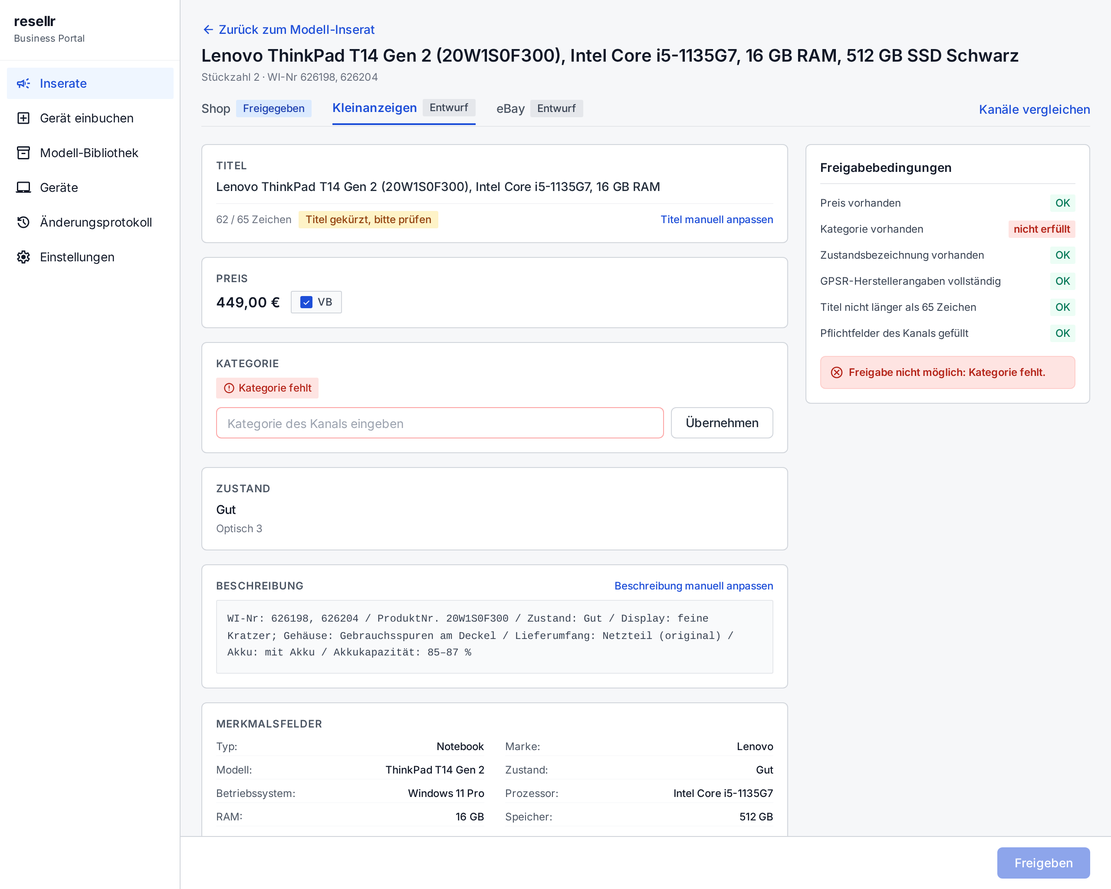
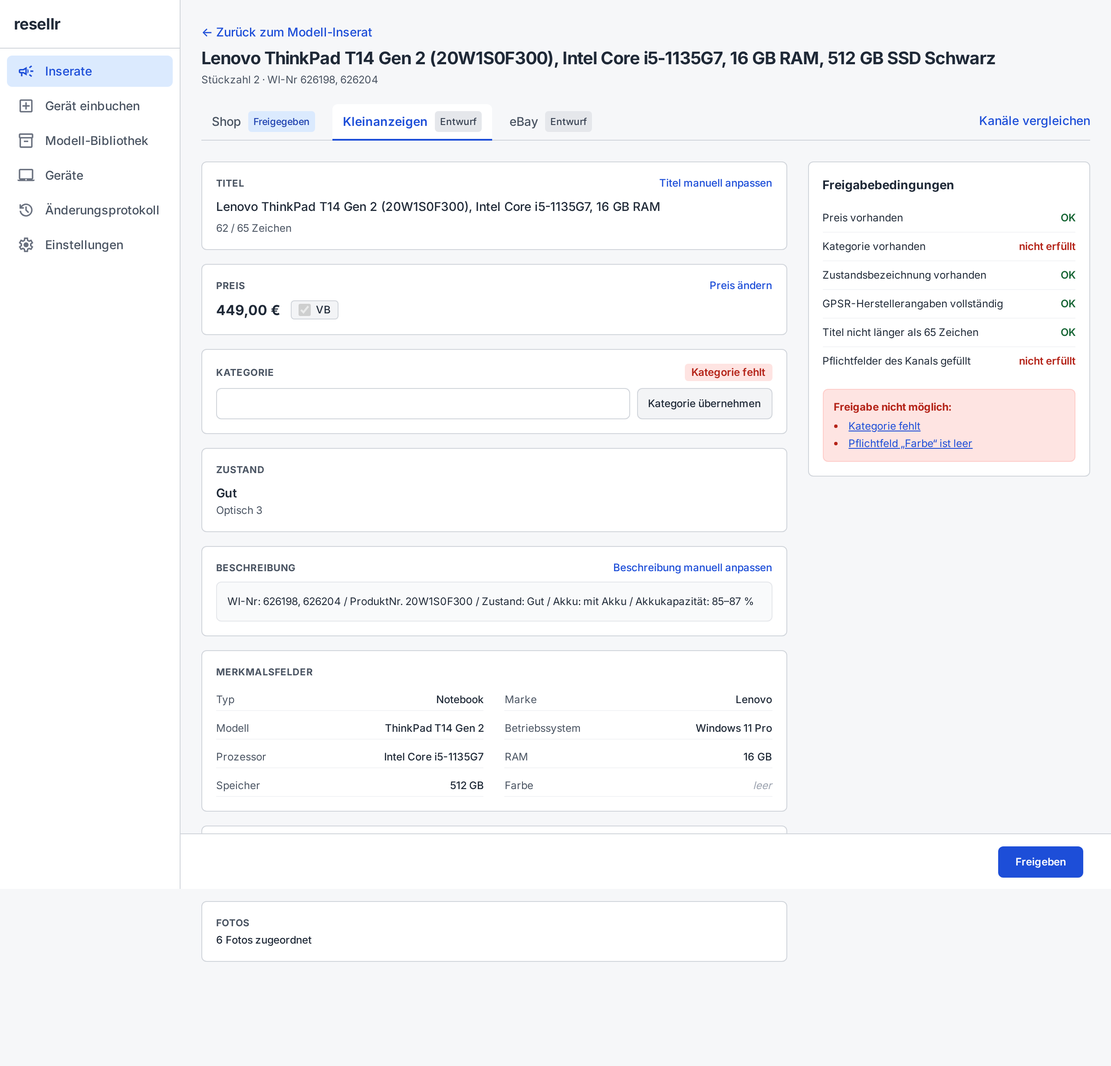
docs(ux): Kernscreen-Mockups, korrigierte UI-016/UI-019, Restpunkte, Self-Review (MAR-128)

diff --git a/docs/ux/uiux-design.md b/docs/ux/uiux-design.md
@@ -5,7 +5,7 @@
 | Feld | Wert |
 |---|---|
 | Projekt / Release | resellr (Arbeitstitel), Phase 1 / Release 0.1 |
-| Dokumentversion | v0.2 (Entwurf, überarbeitet nach Product-Owner-Review Runde 1; siehe Kap. 10 „Lieferstand“) |
+| Dokumentversion | v0.3 (Entwurf, Mockups Kernscreens ergänzt nach Struktur-Review Runde 1; siehe Kap. 10 „Lieferstand“) |
 | Status | draft (kein Review, keine Freigabe) |
 | Klassifikation | **Material** (Owner bestätigt) |
 | Autor / Datum | UI/UX Designer, 06.11.2026 |
@@ -53,13 +53,13 @@ Spalte „Mockup“: Zustände mit PNG. „Text“ = nur `screen.md` (Muster P-0
 
 | ID | Name | Zweck | REQ | FLOW | Mockup | Ordner |
 |---|---|---|---|---|---|---|
-| UI-001 | Zugang | Zugangspasswort eingeben (Netzbetrieb) | REQ-001 | 07 | Text | UI-001-zugang |
+| UI-001 | Zugang | Zugangspasswort eingeben (Netzbetrieb) | REQ-001 | 07 | default | UI-001-zugang |
 | UI-002 | Inserat-Übersicht | Modell-Inserate mit Status/Kennzeichnungen filtern | REQ-052, 046, 090 | 03, 06 | default | UI-002-inserat-uebersicht |
 | UI-003 | Gerät einbuchen | Gerät per WI-Nr erfassen, Werte prüfen | REQ-012–015, 062 | 01, 02 | default | UI-003-geraet-einbuchen |
 | UI-004 | Modell-Inserat wählen (Dialog) | Gerät zuordnen oder neues Modell-Inserat anlegen | REQ-017, 019 | 01, 02 | Text | UI-004-zuordnen-dialog |
-| UI-005 | Abweichungen bei Zuordnung (Dialog) | Abweichung der Variantenangaben entscheiden | REQ-018 | 02 | Text | UI-005-abweichungen-dialog |
+| UI-005 | Abweichungen bei Zuordnung (Dialog) | Abweichung der Variantenangaben entscheiden | REQ-018 | 02 | default | UI-005-abweichungen-dialog |
 | UI-006 | Modell-Bibliothek | Modellvorlagen suchen | REQ-009 | 01 | Text | UI-006-modell-bibliothek |
-| UI-007 | Modellvorlage anlegen/ändern | Modelldaten und Vorbelegungen pflegen | REQ-008, 010, 011, 058 | 01, 06 | Text | UI-007-modellvorlage |
+| UI-007 | Modellvorlage anlegen/ändern | Modelldaten und Vorbelegungen pflegen | REQ-008, 010, 011, 058 | 01, 06 | default | UI-007-modellvorlage |
 | UI-008 | Hersteller anlegen (Dialog) | neuen Hersteller anlegen | REQ-100 | 01 | Text | UI-008-hersteller-dialog |
 | UI-009 | Geräte | Geräte per WI-Nr finden, nicht zugeordnete Geräte | REQ-016, 094 | 03 | Text | UI-009-geraete |
 | UI-010 | Gerät | Gerätewerte, Verkauf, Korrektur, Datenblatt | REQ-014, 016, 020, 021, 084, 092, 093 | 03, 08 | Text | UI-010-geraet |
@@ -82,20 +82,20 @@ Spalte „Mockup“: Zustände mit PNG. „Text“ = nur `screen.md` (Muster P-0
 | UI-027 | Gerätearten und Merkmale | Geräteart, Merkmale | REQ-004, 005, 006 | 05 | default | UI-027-geraeteart-merkmale |
 | UI-028 | Auswahllisten | Listenwerte pflegen | REQ-007 | – | Text | UI-028-auswahllisten |
 | UI-029 | Titelmuster | Bestandteile, Kürzung, Vorschau | REQ-030, 034, 035 | 05 | default | UI-029-titelmuster |
-| UI-030 | Textbausteine | Texte, Geltungsbereich, Prüfstatus | REQ-026, 054 | 04 | Text | UI-030-textbausteine |
+| UI-030 | Textbausteine | Texte, Geltungsbereich, Prüfstatus | REQ-026, 054 | 04 | default | UI-030-textbausteine |
 | UI-031 | Hersteller und GPSR | Hersteller, GPSR-Angaben | REQ-027, 100, 101 | 04 | Text | UI-031-hersteller-gpsr |
 | UI-032 | Lieferanten | Lieferanten pflegen | REQ-099 | – | Text | UI-032-lieferanten |
 | UI-033 | Code-Übersetzung | Zustandscodes | REQ-022 | – | Text | UI-033-code-uebersetzung |
 | UI-034 | Zustandszuordnung | Zustand → Kanal-Bezeichnung | REQ-023 | – | Text | UI-034-zustandszuordnung |
 | UI-035 | Kategoriezuordnung | Geräteart → Kanal-Kategorie | REQ-024 | 05 | Text | UI-035-kategoriezuordnung |
-| UI-036 | Merkmalszuordnung | Felder je Kanal/Geräteart, Reihenfolge | REQ-025 | 05 | Text | UI-036-merkmalszuordnung |
-| UI-037 | Beschreibungsvorlagen | Abschnitte je Kanal | REQ-031, 036 | 05 | Text | UI-037-beschreibungsvorlagen |
+| UI-036 | Merkmalszuordnung | Felder je Kanal/Geräteart, Reihenfolge | REQ-025 | 05 | default | UI-036-merkmalszuordnung |
+| UI-037 | Beschreibungsvorlagen | Abschnitte je Kanal | REQ-031, 036 | 05 | default | UI-037-beschreibungsvorlagen |
 | UI-038 | Kanäle und Preisregeln | Kanal-Einstellungen, Preisregel | REQ-029, 033, 085 | – | Text | UI-038-kanaele-preisregeln |
 | UI-039 | Datenblatt-Layout | Kopfzeilen, Blockfolge | REQ-051 | 05 | Text | UI-039-datenblatt-layout |
-| UI-040 | Zugangspasswort ändern | Passwort ändern (Netzbetrieb) | REQ-097, 067 | 07 | Text | UI-040-zugangspasswort |
-| UI-041 | Löschen bestätigen (Dialog) | Modell-Inserat/Modellvorlage löschen | REQ-095, 103 | 08 | Text | UI-041-loeschen-dialog |
+| UI-040 | Zugangspasswort ändern | Passwort ändern (Netzbetrieb) | REQ-097, 067 | 07 | success | UI-040-zugangspasswort |
+| UI-041 | Löschen bestätigen (Dialog) | Modell-Inserat/Modellvorlage löschen | REQ-095, 103 | 08 | default | UI-041-loeschen-dialog |
 | UI-042 | Excel-Übernahme | Datenblatt-Excel einlesen (Could) | REQ-056 | – | Text | UI-042-excel-uebernahme |
-| UI-043 | Auswirkung der Änderung (Dialog) | Anzahl betroffener Kanal-Inhalte melden | REQ-053, 043 | 04 | Text | UI-043-auswirkung-dialog |
+| UI-043 | Auswirkung der Änderung (Dialog) | Anzahl betroffener Kanal-Inhalte melden | REQ-053, 043 | 04 | default | UI-043-auswirkung-dialog |
 
 Nicht abgedeckt, weil nicht in Kap. 6 gefordert: Suche über alles, Dashboard, Benutzerverwaltung. Die Pflege-Kanalfeld-Reihenfolge des Kopier-Assistenten (REQ-029) liegt in UI-036.
 
@@ -184,26 +184,50 @@ Nicht abgedeckt, weil nicht in Kap. 6 gefordert: Suche über alles, Dashboard, B
 - **V-3 Fotos (REQ-048):** (A) Foto-Ordner öffnen oder ZIP herunterladen, Namen 01 … — *Empfehlung*, nach Baseline v0.1 der einzige tragfähige Weg; (B) Ziehen aus der Seite in fremde Upload-Felder: laut Baseline nicht verlässlich möglich, entfällt.
 
 **Offene Fragen an den Product Owner:**
-1. v0.3.1 als Lesestand bestätigen (Kap. 1).
+1. v0.3.1 als Lesestand: **beantwortet** (Owner und Product Owner: gilt).
 2. REQ-057 und REQ-059 (Could): vom Product Owner zur textlichen Aufnahme entschieden; eingearbeitet (erledigt).
-3a. OF-19-1: Zählen leere Felder im Kopier-Assistenten in „n von m“ mit? Vorschlag: nein (siehe UI-019).
-3. REQ-033/085: Preis-Vorschlag-Anzeige in UI-014 als Hinweis „vorgeschlagen nach Preisregel“ — in Requirements nicht textlich festgelegt; Annahme in `screen.md`.
-4. REQ-048: Form der Bereitstellung (siehe V-3) wird mit OP-15 final.
+3a. OF-19-1: Zählen leere Felder in „n von m“ mit? **Entschieden** (Product Owner): nein; Design-Annahme, keine Anforderung. Klärungspunkt an CEOrchestrator gemeldet.
+3. REQ-033/085: Hinweis „vorgeschlagen nach Preisregel“ in UI-014: **bestätigt** (Design-Annahme, keine Anforderung).
+4. REQ-048: Form der Bereitstellung (siehe V-3): wartet auf OP-15.
 5. In UI-029 zeigt die Vorschau den Titel **nach** Kürzung; die Mockup-Beispielzeile mit „zu lang“ entspricht dem Fall „Kürzung nicht möglich“ (Priorität-1-Bestandteile zu lang).
 
 ## 9. Stitch-Budget
 
-Stand siehe `stitch-log.md` (aktuell 11 von 40). Geplant: weitere Mockups für UI-001, UI-005, UI-007, UI-030, UI-036, UI-037, UI-040, UI-041/043 und Zustände (UI-002 empty, UI-016 Entwurfsvergleich, UI-019 empty fotos).
+Stand siehe `stitch-log.md`: **24 von 40** Generierungen. Davon 2 verworfene `edit_screens` (Änderung wurde von Stitch nicht gespeichert, siehe Log) und 2 Neugenerierungen als Ersatz (UI-016, UI-019 compact). Der Richtwert des Product Owners (höchstens 12 weitere ab Stand 11, also 23) ist um 1 überschritten, bedingt durch den zweiten Ersatz (UI-019 compact). Die Meldeschwelle 30 ist nicht erreicht. Zusätzliche Mockups sind nicht geplant.
 
 ## 10. Lieferstand (Ehrlichkeitsvermerk)
 
-- Vorhanden: `DESIGN.md`, `stitch-log.md`, dieses Dokument, `flows/flow.md`, **43 `screen.md`** (alle Screens des Katalogs), Mockups für 11 Screens/Zustände (UI-002, 003, 014, 016, 017, 018, 019 default+compact, 023, 027, 029).
-- Screens ohne Mockup tragen „nur Text“ (Muster P-01 bis P-04). Dort ist `screen.md` die vollständige Beschreibung; Mockups für wichtige Screens sind geplant (Stand siehe `stitch-log.md`), kein Ersatz für die Textbeschreibung.
-- Noch **nicht** erfolgt: Self-Review nach Skill §6 (Teilprüfung im Kommentar), Cross-Check mit der Architecture Baseline (liegt nicht vor), Product Owner Review.
-- Stitch ergänzt je Screen den Untertitel „Business Portal“ in der Navigation (kein Teil des Designs, siehe `screen.md` „Bekannte Abweichungen“).
+- Vorhanden: `DESIGN.md`, `stitch-log.md`, dieses Dokument, `flows/flow.md`, **43 `screen.md`**, **20 Mockup-Dateien** zu 20 Screens/Zuständen: UI-001, 002, 003, 005, 007, 014, 016 (neu), 017, 018, 019 (default und compact neu), 023, 027, 029, 030, 036, 037, 040 (success), 041, 043.
+- Screens ohne Mockup (z. B. UI-004, 006, 008 bis 013, 015, 020 bis 022, 024 bis 026, 028, 031 bis 035, 038, 039, 042): `screen.md` ist die vollständige Beschreibung (Muster P-01 bis P-05).
+- **Mockups, die der Spezifikation noch nicht voll entsprechen** (Abweichungen je Screen unter „Bekannte Abweichungen im Mockup“, `screen.md` gilt): UI-019 default (Vollfenster: alter Foto-Button, alte Zählerform), UI-030 (Tabelle rechts abgeschnitten), UI-037 (Stitch-Zusatzelemente), UI-018 und weitere ältere Mockups mit dem Untertitel „Business Portal“. Gründe: Budget und der Tooling-Befund zu `edit_screens`.
+- Tooling-Befund: `edit_screens` speichert Änderungen nicht (zweimal beobachtet); Korrekturen nur per Neugenerierung. HTML-Export entfällt weiterhin (Abweichung von Skill marlonet-uiux-stitch §8, siehe Log).
+- Noch **nicht** erfolgt: Cross-Check mit der Architecture Baseline (liegt als Entwurf v0.1 vor, Freigabe offen), Product Owner Review der Mockups, Owner-Freigabe.
 
 ## 11. Änderungsprotokoll
 
 | Version | Datum | Änderung |
 |---|---|---|
 | v0.1 | 06.11.2026 | Erstfassung (Entwurf): Katalog, Flüsse, Muster, Traceability, Mockups Kernscreens |
+| v0.2 | 06.11.2026 | Überarbeitung nach Struktur-Review Runde 1 (Commit 53bd6de) |
+| v0.3 | 06.11.2026 | Restpunkte Review R1 (Kennzeichnung „Design-Annahme“, Kap. 8); Mockups UI-001, 005, 007, 030, 036, 037, 040, 041, 043; Neugenerierung UI-016 (Freigeben aktiv, Fehlerliste) und UI-019 compact (480 px, „n von m“, Foto-Aktionen); Self-Review (Kap. 12) |
+
+## 12. Self-Review nach Skill marlonet-ui-ux-design §6 (Stand v0.3)
+
+Geprüft wurde mechanisch (Skript) und durch Sichtprüfung der neun neuen und zwei ersetzten Mockups. Eine zeilenweise Neuprüfung aller REQ gegen alle Screens fand **nicht** statt; sie stützt sich auf die Traceability und den Struktur-Review des Product Owners (Runde 1).
+
+| Kriterium | Ergebnis |
+|---|---|
+| Coverage | Alle aktiven REQ der Traceability haben Screens/Flows. Zurückgezogen: REQ-002/003/096/098. REQ-057/059 (Could) nur textlich. Lücken: keine bekannt. |
+| Spec readiness | Alle 43 `screen.md` enthalten die sieben Pflichtabschnitte (Skriptprüfung). Inhaltliche Vollständigkeit je Feld nicht erneut geprüft. |
+| States | Zustandstabelle je Screen vorhanden. Layoutverändernde Zustände ohne Mockup: UI-002 empty, UI-016 geaendert, UI-019 ohne Fotos, UI-018 entwurf-vergleich (nur Text). |
+| Consistency | UI-016 und UI-019 compact stimmen jetzt mit `screen.md` überein. UI-019 default (Vollfenster) widerspricht noch (Foto-Button, Zähler), als Abweichung vermerkt. 440 px nur noch als dokumentierte Abweichung. |
+| No invented scope | Von Stitch ergänzte Elemente sind je Screen unter „Bekannte Abweichungen“ gelistet (am stärksten UI-037 und UI-030). Sie sind nicht Teil des Designs. Nicht entfernt, weil `edit_screens` nicht speichert und das Budget begrenzt ist. |
+| Error/edge cases | Fehler- und Ablehnungstexte stehen in den Aktionstabellen. Vollbild-Fehlerzustände sind nur Text. |
+| Accessibility/responsive | Keine Anforderung (E-2 bis E-4). Es wird keine Konformität behauptet. Kontraste siehe DESIGN.md (Skriptwerte). Mockups sind kein Nachweis. |
+| Content/recovery | Texte deutsch, Formate de-DE in den Mockups geprüft (Dezimalkomma, „449,00 €“). |
+| Pragmatism | Design System proportional (`DESIGN.md`, proposed). |
+| Implementability | Baseline v0.1 nur als Vorabprüfung (Kap. 6a). Formaler Cross-Check offen. |
+| Traceability | REQ → FLOW → UI vorhanden. |
+| Decision integrity | Bestätigte Annahmen als „Design-Annahme, keine Anforderung“ gekennzeichnet (UI-003, 006, 014, 019, 024). Offene Owner-Entscheidungen: V-1 bis V-3, OP-15, OP-23-Klärung im Cross-Check. Status bleibt draft. |
+| Repository state | Alle in `screen.md` genannten PNG existieren (Skriptprüfung). Keine Secrets. |
+

diff --git a/docs/ux/screens/UI-019-kopier-assistent/screen.md b/docs/ux/screens/UI-019-kopier-assistent/screen.md
@@ -5,7 +5,7 @@
 - Anforderungen: REQ-047, REQ-048, REQ-049, REQ-091, REQ-045, REQ-046, REQ-090; AC-REQ-047-01 bis -06, AC-REQ-048-01/-02
 - Rollen: Nutzer
 - Gerät(e): PC; **zwei Layouts**: Vollfenster ab 1366 × 768 und schmales Arbeitsfenster (ab 480 px Mindestbreite, volle Höhe, ohne Navigation) zur Nutzung neben einem anderen Programm
-- Artefakte: default.png (Stitch 59004a119c70418f85d9024115185329), compact.png (Stitch 149274c4a0b04b9e9dd56e5e94187906), DESKTOP, 06.11.2026
+- Artefakte: default.png (Stitch 59004a119c70418f85d9024115185329), compact.png (Stitch 257305f592a548688c85f43e24e3fc77; ersetzt 149274c4a0b04b9e9dd56e5e94187906 mit 440 px, „39%“ und altem Foto-Button), DESKTOP, 06.11.2026
 
 ## Angezeigte Daten
 | Element | Inhalt | Quelle | Hinweise |
@@ -14,7 +14,7 @@
 | Hinweis | „Neuer Stand noch nicht freigegeben“ + Link „Änderungsentwurf prüfen“ (UI-018) bei „geändert seit Freigabe“ | REQ-047 | zeigt immer den freigegebenen Stand, nie den Entwurf |
 | Fortschritt | „n von m übernommen“ (z. B. „3 von 12 übernommen“) und „k offen“, Balken | REQ-049, AC-REQ-049-01 | Prozentzahl entfällt (im Mockup „39%“ von Stitch ergänzt) |
 | Feldzeilen | Feldbezeichnung des Kanals, Wert (Beschreibung mehrzeilig, Zeilenumbrüche sichtbar, scrollbar), Kopieren-Button, Chip „übernommen“ | freigegebener Stand mit aktuellen Bestandsangaben (REQ-091) | Reihenfolge = Feldreihenfolge des Kanals (UI-036); Felder: Titel, Beschreibung, Kategorie, Zustand (+Zusatz), Preis (ggf. „VB“), Merkmalsfelder, GPSR-Angaben |
-| Leeres Feld | Wert „leer“, kein Kopieren-Button | REQ-037 | Leere Felder sind nicht kopierbar und zählen weder in „n“ noch in „m“ (m = Felder mit Wert). Das entspricht AC-REQ-049-01 („12 Felder“), die Requirements regeln leere Felder aber nicht ausdrücklich: offene Frage OF-19-1 |
+| Leeres Feld | Wert „leer“, kein Kopieren-Button | REQ-037 | Leere Felder sind nicht kopierbar und zählen weder in „n“ noch in „m“ (m = Felder mit Wert). Das entspricht AC-REQ-049-01 („12 Felder“), die Requirements regeln leere Felder aber nicht ausdrücklich: Design-Annahme, keine Anforderung (OF-19-1 entschieden) |
 | Fotos | „n Fotos in Reihenfolge, Dateinamen beginnen mit 01 …“, nummerierte Vorschau, Buttons „Foto-Ordner öffnen“ und „Fotos als ZIP herunterladen“; ohne Fotos „Keine Fotos zugeordnet“ | REQ-048 | Ordner oder ZIP laut Architecture Baseline v0.1 (C-3); Mockup zeigt noch „Fotos herunterladen“ |
 | Nächstes Feld | Die erste offene Zeile ist hervorgehoben und trägt die Marke „nächstes Feld“, in beiden Layouts | – | Enter kopiert dieses Feld |
 
@@ -49,10 +49,10 @@ Keine Eingaben. Tastatur: Pfeil auf/ab wählt Zeile, Enter oder Strg+Enter kopie
 Vollfenster: Liste mit Spalten Feldname | Wert | Aktion. Schmal: eine Zeile je Feld, Wert einzeilig gekürzt (voller Wert per Klick auf den Wert oder Tooltip), Buttons groß (≥ 32 px Höhe), Navigation ausgeblendet. Die Markierungen „übernommen“ gelten für die laufende Nutzung und werden bei neuer Freigabe zurückgesetzt (REQ-049). Ob das schmale Layout als eigenes Fenster oder als Umschalter realisiert wird, hängt von OP-15 ab.
 
 ## Bekannte Abweichungen im Mockup
-„Business Portal“ (Stitch, default.png); im default.png: Feldbezeichner in Großbuchstaben; Sticky-Leiste; compact.png ist auf 440 px gestaltet (maßgeblich: 480 px); Fortschrittsprozent „39%“ im compact.png (nicht Teil des Designs); „Normale Ansicht“ mit Symbol „externes Fenster“ (Symbolwahl nicht verbindlich); compact.png zeigt nur die ersten 10 Felder (Scrollbereich), Rest gemäß Liste; Thumbnails 01–06 sind Platzhalter.
+default.png (Vollfenster, Stand vor Baseline-Vorprüfung): „Business Portal“ (Stitch); Feldbezeichner in Großbuchstaben; Sticky-Leiste; **Foto-Button zeigt noch „Fotos herunterladen“, maßgeblich sind „Foto-Ordner öffnen“ und „Fotos als ZIP herunterladen“**; Zähler dort noch in alter Form (maßgeblich „n von m übernommen“). Das Vollfenster-Mockup wurde aus Budgetgründen nicht neu erzeugt. compact.png (neu, 480 px): Anzeige „7 von 18 übernommen“ ohne Prozent; beide Foto-Aktionen sichtbar; Feldbezeichner in Großbuchstaben; Fotos-Karte zeigt „6 Fotos (01–06)“ statt Thumbnails; „Normale Ansicht“ ohne Symbol (Symbolwahl nicht verbindlich); Liste endet nach 8 Feldern (Rest laut Liste, Scrollbereich); die Sicht „Abgleich bestätigen“ ist im Mockup als aktiv dargestellt, in Status Freigegeben gilt der Zustand laut Aktionstabelle (deaktiviert).
 
 ## Annahmen und offene Fragen
 - Browser (Baseline v0.1): Zwischenablage nur auf Nutzeraktion, ein Feld als reiner Text (Fehlerfall ist gestaltet). Schmales Layout ist ein Umschalter im selben Fenster; der Nutzer kann ein zweites, schmales Browserfenster öffnen. Mindestbreite 480 px, vom Software Architect zu prüfen (C-5).
 - Konflikt (P-05): „Neuer Stand noch nicht freigegeben“ bzw. geänderter Stand beim Laden → Banner „Bitte neu laden“.
 - Annahme: „Kopieren“ markiert nicht automatisch „übernommen“, wenn der Systemzugriff scheitert.
-- **OF-19-1 (an Product Owner):** Sollen leere Felder in „n von m“ mitzählen? Design-Vorschlag: nein, weil sie nichts zu übernehmen haben; die Requirements (REQ-049) regeln das nicht.
+- **OF-19-1 entschieden (Product Owner):** Leere Felder zählen weder in „n“ noch in „m“. **Design-Annahme, keine Anforderung**; die Requirements (REQ-048/049) regeln das nicht, Klärungspunkt liegt beim CEOrchestrator.

diff --git a/docs/ux/stitch-log.md b/docs/ux/stitch-log.md
@@ -1,5 +1,5 @@
 # Stitch-Log – resellr Release 0.1
-Stitch-Projekt: 7947641073263768710 · Design-System: assets/14699510063308426971 · Budget: 11/40 (Stand siehe Tabelle)
+Stitch-Projekt: 7947641073263768710 · Design-System: assets/14699510063308426971 · Budget: 24/40 (Stand siehe Tabelle)
 
 Hinweis zum Export: Es werden nur Screenshots (PNG) ins Repository exportiert. Der HTML-Export steht vollständig in der Tool-Antwort (ca. 7.000 Tokens je Screen) und wird bewusst nicht gesichert (Abweichung von Skill marlonet-uiux-stitch §8, dem Product Owner gemeldet). Es gibt keine Referenz auf HTML, das nur in Stitch existiert.
 
@@ -18,3 +18,18 @@ Hinweis zum Export: Es werden nur Screenshots (PNG) ins Repository exportiert. D
 | 11 | 2026-11-06 | generate_screen_from_text | UI-029 default | Erstgenerierung (877d32da24214ae9970d9047237ec7d6) | übernommen | 9 |
 | 12 | 2026-11-06 | generate_screen_from_text | UI-023 default | Erstgenerierung (b54e7fed073c49b1af58c3b5d24c1d0d) | übernommen | 10 |
 | 13 | 2026-11-06 | generate_screen_from_text | UI-017 default | Erstgenerierung (3afa78d0dae24e0e862af3515ac8f30c) | übernommen | 11 |
+| 14 | 2026-11-06 | edit_screens | UI-016 default | Korrektur „Freigeben“ aktiv und Fehlerliste (a88484966822498492facf1aab70cf6d) | verworfen: Änderung wurde nicht gespeichert (Datei-IDs und HTML unverändert) | 12 |
+| 15 | 2026-11-06 | generate_screen_from_text | UI-001 default | Erstgenerierung (4679aea61f52413193200cb3111b8062) | übernommen | 13 |
+| 16 | 2026-11-06 | generate_screen_from_text | UI-005 default | Erstgenerierung (3e8680e117f941aa8112e320354fb2a7) | übernommen | 14 |
+| 17 | 2026-11-06 | generate_screen_from_text | UI-007 default | Erstgenerierung (69e6f51ff7de415ca4632aca7d171b60) | übernommen | 15 |
+| 18 | 2026-11-06 | generate_screen_from_text | UI-030 default | Erstgenerierung (17cd3cbfa6634c04bf11a6b3a6575080) | übernommen mit Abweichungen | 16 |
+| 19 | 2026-11-06 | generate_screen_from_text | UI-036 default | Erstgenerierung (26f112bbf02e48ac8e663f46655bc3fd) | übernommen | 17 |
+| 20 | 2026-11-06 | generate_screen_from_text | UI-037 default | Erstgenerierung (4b9652ddd3ee4bc1961b3759040137c8) | übernommen mit Abweichungen (Stitch-Zusätze, in screen.md vermerkt) | 18 |
+| 21 | 2026-11-06 | generate_screen_from_text | UI-040 success | Erstgenerierung (c6973f04666c47f99c5a021d3ad2f9b0) | übernommen | 19 |
+| 22 | 2026-11-06 | generate_screen_from_text | UI-041 default | Erstgenerierung (33551ce25df94a83bdeb5a0ca4ecbe78) | übernommen | 20 |
+| 23 | 2026-11-06 | generate_screen_from_text | UI-043 default | Erstgenerierung (98c649544899484faefeb3430e5dddca) | übernommen | 21 |
+| 24 | 2026-11-06 | edit_screens | UI-019 compact | Korrektur 480 px, ohne Prozent, neue Foto-Buttons (149274c4a0b04b9e9dd56e5e94187906) | verworfen: Änderung wurde nicht gespeichert | 22 |
+| 25 | 2026-11-06 | generate_screen_from_text | UI-016 default | Neugenerierung statt Edit, mit allen Korrekturen (d7ec8b5e63924f6e8bfb298d11121f62) | übernommen, ersetzt a8848496… | 23 |
+| 26 | 2026-11-06 | generate_screen_from_text | UI-019 compact | Neugenerierung statt Edit, 480 px (257305f592a548688c85f43e24e3fc77) | übernommen, ersetzt 149274c4… | 24 |
+
+Befund Tooling: `edit_screens` meldet Erfolg und liefert DOM-Operationen, speichert die Änderung aber nicht in den Dateien des Screens (zweimal beobachtet, HTML und Screenshot blieben unverändert). Korrekturen erfolgten deshalb per Neugenerierung. Jeder verworfene Edit zählte gegen das Budget. Die Screens a88484966822498492facf1aab70cf6d und 149274c4a0b04b9e9dd56e5e94187906 bleiben im Stitch-Projekt, sind aber nicht Teil des Designs.

diff --git a/docs/ux/screens/UI-016-kanal-inhalt-freigeben/screen.md b/docs/ux/screens/UI-016-kanal-inhalt-freigeben/screen.md
@@ -5,7 +5,7 @@
 - Anforderungen: REQ-034–044, REQ-045, REQ-086, REQ-087, REQ-043, REQ-053, REQ-059 (Could); AC-REQ-044-01 bis -03, AC-REQ-045-01, AC-REQ-089-02
 - Rollen: Nutzer
 - Gerät(e): PC, ab 1366 × 768
-- Artefakte: default.png (Stitch a88484966822498492facf1aab70cf6d, DESKTOP, 06.11.2026)
+- Artefakte: default.png (Stitch d7ec8b5e63924f6e8bfb298d11121f62, DESKTOP, 06.11.2026; ersetzt Stand a88484966822498492facf1aab70cf6d, der mit der Spezifikation kollidierte)
 
 ## Angezeigte Daten
 | Element | Inhalt | Quelle | Hinweise |
@@ -60,7 +60,7 @@
 Zwei Spalten (Inhalt 8/12, Bedingungen 4/12), Bedingungen bleiben beim Scrollen sichtbar. Tab-Reihenfolge: Tabs → Felder → Bedingungen → Freigeben.
 
 ## Bekannte Abweichungen im Mockup
-„Business Portal“ (Stitch); Beispiel „Titel gekürzt, bitte prüfen“ bei 62/65 Zeichen (nach Regel erscheint der Chip nur bei Kürzung am Wortende, Beispiel nur zur Illustration); Platzhalter „Kategorie des Kanals eingeben“ im Eingabefeld; „Übernehmen“-Button heißt in Wirklichkeit „Kategorie übernehmen“; Preis-Link „Preis ändern“ fehlt im Mockup; Sticky-Leiste mit nur einem Button ist maßgeblich; „Freigeben“ ist im Mockup gedimmt dargestellt, maßgeblich ist der aktive Button; das Fehlerbanner zeigt im Mockup nur einen Eintrag ohne Liste und Links.
+Das Mockup zeigt „Freigeben“ aktiv und das Fehlerbanner mit Liste und Links (Stand nach Korrektur). Abweichungen: Titel ohne Chip „Titel gekürzt, bitte prüfen“ (Beispiel bei 62/65 Zeichen, Chip erscheint nur bei Kürzung); die Bedingung „Pflichtfelder des Kanals gefüllt“ steht auf „nicht erfüllt“ (im Fehlerbanner als „Pflichtfeld „Farbe“ ist leer“ benannt); der Eintrag „Preis fehlt“ wird nicht gezeigt (Preis ist vorhanden). Die GPSR-Karte liegt hinter der Sticky-Leiste und ist im Mockup nicht sichtbar; die Fotos-Karte steht außerhalb des Bildschirmrahmens. Das Eingabefeld „Kategorie“ ist leer ohne Platzhalter. Navigationsuntertitel „Business Portal“ entfällt in diesem Mockup. Kennzeichnung „VB“ ist als Kontrollkästchen dargestellt.
 
 ## Annahmen und offene Fragen
 - Annahme: Nach Freigabe wird kein automatischer Seitenwechsel durchgeführt, nur Link zum Kopier-Assistenten.

diff --git a/docs/ux/screens/UI-037-beschreibungsvorlagen/screen.md b/docs/ux/screens/UI-037-beschreibungsvorlagen/screen.md
@@ -1,6 +1,6 @@
 # UI-037 – Beschreibungsvorlagen
 
-- Zweck: Je Kanal eine Beschreibungsvorlage aus Abschnitten definieren. · Flows: FLOW-05 · Anforderungen: REQ-031, REQ-036, Kap. 9.7, 9.12 · Rollen: Nutzer · Gerät(e): PC · Artefakte: nur Text (Mockup geplant; Muster P-03)
+- Zweck: Je Kanal eine Beschreibungsvorlage aus Abschnitten definieren. · Flows: FLOW-05 · Anforderungen: REQ-031, REQ-036, Kap. 9.7, 9.12 · Rollen: Nutzer · Gerät(e): PC · Artefakte: default.png (Stitch 4b9652ddd3ee4bc1961b3759040137c8, DESKTOP, 06.11.2026)
 
 ## Angezeigte Daten
 Kanal-Auswahl; Abschnittsliste: optionale Überschrift, Inhaltselemente (fester Text, Platzhalter-Chips, Textbaustein, „alle Textbausteine der Art …“), Geltung (alle oder bestimmte Gerätearten); **Vorschau** rechts: Beschreibung am gewählten Beispiel-Modell-Inserat mit Zeilenumbrüchen; entfallende Zeilen/Abschnitte (leere Platzhalter) sind in der Vorschau erkennbar.
@@ -34,7 +34,7 @@ Kanal-Auswahl; Abschnittsliste: optionale Überschrift, Inhaltselemente (fester 
 Ab 1366 px; Einstellungs-Liste (240 px) links, Inhalt rechts; Tastaturalternativen zum Ziehen.
 
 ## Bekannte Abweichungen im Mockup
-keine (kein Mockup; Muster siehe uiux-design.md Kap. 5).
+Von Stitch erzeugt, nicht Teil des Designs: Untertitel „Konfiguration dynamischer Textbausteine für Marktplatz-Inserate“; Zusatzzeile „Reihenfolge und Felder der generierten Beschreibungsteile festlegen“; Kennzeichnung „3 Abschnitte aktiv“; Chip „Live synchronisiert“ mit Zusatzzeile „Echtzeit-Generierung basierend auf Referenzgerät“; Infobox „Variablen ohne hinterlegte Bestandsdaten werden …“; Abschnittsnamen („Basisdaten“, „Zustandsbeschreibung“, „Zubehör & Lieferumfang“); Ziehgriffe und Löschen-Symbole an Inhaltszeilen. Das Auswahlfeld „Textbausteine der Art“ ist im Mockup leer (maßgeblich: Wert „Akku-Hinweis“). Abschnitt 3 liegt hinter der Sticky-Leiste. Die durchgestrichene Vorschauzeile „entfällt“ ist die Darstellung für entfallende Zeilen.
 
 ## Annahmen und offene Fragen
 - Überschriften und Zeilen der Startbelegung sind [Vorschlag BA] und werden mit dem Pilotkunden abgestimmt.

diff --git a/docs/ux/screens/UI-036-merkmalszuordnung/screen.md b/docs/ux/screens/UI-036-merkmalszuordnung/screen.md
@@ -1,6 +1,6 @@
 # UI-036 – Merkmalszuordnung
 
-- Zweck: Je Kanal und Geräteart festlegen, welche Quelle unter welcher Feldbezeichnung in welcher Reihenfolge ausgegeben wird (bestimmt auch die Reihenfolge im Kopier-Assistenten). · Flows: FLOW-05 · Anforderungen: REQ-025, REQ-029, REQ-037, Kap. 9.8, 9.11 · Rollen: Nutzer · Gerät(e): PC · Artefakte: nur Text (Mockup geplant; Muster P-02)
+- Zweck: Je Kanal und Geräteart festlegen, welche Quelle unter welcher Feldbezeichnung in welcher Reihenfolge ausgegeben wird (bestimmt auch die Reihenfolge im Kopier-Assistenten). · Flows: FLOW-05 · Anforderungen: REQ-025, REQ-029, REQ-037, Kap. 9.8, 9.11 · Rollen: Nutzer · Gerät(e): PC · Artefakte: default.png (Stitch 26f112bbf02e48ac8e663f46655bc3fd, DESKTOP, 06.11.2026)
 
 ## Angezeigte Daten
 Auswahl Kanal und Geräteart; Tabelle: Reihenfolge, Feldbezeichnung des Kanals, Quelle (Q-01 bis Q-08 in Klartext: „Merkmal <Name>“, „Hersteller“, „EAN“ …), Pflichtfeld des Kanals, Wertzuordnung (Anzahl Zuordnungen).
@@ -35,7 +35,7 @@ Auswahl Kanal und Geräteart; Tabelle: Reihenfolge, Feldbezeichnung des Kanals, 
 Ab 1366 px; Einstellungs-Liste (240 px) links, Inhalt rechts; Tastaturalternativen zum Ziehen.
 
 ## Bekannte Abweichungen im Mockup
-keine (kein Mockup; Muster siehe uiux-design.md Kap. 5).
+Die „Feldbezeichnung des Kanals“ ist im Mockup als Text dargestellt; maßgeblich ist ein Eingabefeld (1 bis 100 Zeichen). Auf-/Ab-Pfeile je Zeile sind die Bedienung für die Reihenfolge (Design-Entscheidung, keine Anforderung). Beim Entfernen einer Zeile: Aktion „Zeile entfernen“ ist im Mockup nicht dargestellt, steht in `screen.md`.
 
 ## Annahmen und offene Fragen
 - Startbelegung Kap. 9.8; Pflichtfelder des Kanals offen bis OP-22.

diff --git a/docs/ux/screens/UI-030-textbausteine/screen.md b/docs/ux/screens/UI-030-textbausteine/screen.md
@@ -1,7 +1,7 @@
 # UI-030 – Textbausteine
 
 - Zweck: Textbausteine (Akku-Hinweis, Lieferumfang, Abholung/Kontakt, Rechtliches, Sonstiges) pflegen, inkl. rechtlichem Prüfstatus.
-- Flows: FLOW-04 · Anforderungen: REQ-026, REQ-054, REQ-053, REQ-043 · Rollen: Nutzer · Gerät(e): PC · Artefakte: nur Text (Mockup geplant; Muster P-01)
+- Flows: FLOW-04 · Anforderungen: REQ-026, REQ-054, REQ-053, REQ-043 · Rollen: Nutzer · Gerät(e): PC · Artefakte: default.png (Stitch 17cd3cbfa6634c04bf11a6b3a6575080, DESKTOP, 06.11.2026)
 
 ## Angezeigte Daten
 Liste: Name, Art, Geltungsbereich (Gerätearten/Kanäle), Status, Prüfstatus (nur Rechtliches/Akku-Hinweis: „rechtlich ungeprüft“ / „rechtlich geprüft am <Datum> durch <Stelle>“). Detailbereich mit Textfeld und Platzhalterliste (Kap. 9.7, ohne `{Baustein:Name}`).
@@ -38,7 +38,7 @@ Liste: Name, Art, Geltungsbereich (Gerätearten/Kanäle), Status, Prüfstatus (n
 Ab 1366 px; Einstellungs-Liste (240 px) links, Inhalt rechts; Tastaturalternativen zum Ziehen.
 
 ## Bekannte Abweichungen im Mockup
-keine (kein Mockup; Muster siehe uiux-design.md Kap. 5).
+Von Stitch erzeugt, nicht Teil des Designs: Kartenüberschrift „Verfügbare Bausteine (5)“ links neben „Neuer Textbaustein“; Pluszeichen im Button. Die Tabelle ist rechts abgeschnitten: Spalte „Prüfstatus“ und das Ende von „Geltungsbereich“ sind im Mockup nicht lesbar; maßgeblich sind die Spalten laut „Angezeigte Daten“ (inkl. Prüfstatus-Chip). Platzhalter-Chips sind eine Darstellungsform der Platzhalterliste.
 
 ## Annahmen und offene Fragen
 - Texte der Bausteine sind nicht Teil der Auslieferung (REQ-006).

diff --git a/docs/ux/screens/UI-040-zugangspasswort/screen.md b/docs/ux/screens/UI-040-zugangspasswort/screen.md
@@ -3,7 +3,7 @@
 > **Entschieden (Owner, 06.11.2026, OP-23):** Der Screen bleibt (REQ-001, REQ-067, REQ-097). Die Baseline-Annahme A-35 (kein Zugangspasswort) gilt dafür nicht; Klärung im Cross-Check.
 
 - Zweck: Im Netzbetrieb das Zugangspasswort ändern. Nur im Netzbetrieb vorhanden.
-- Flows: FLOW-07 · Anforderungen: REQ-097, REQ-067 [v0.3.1: andere Zugänge enden]; AC-REQ-097-01 bis -05 · Rollen: Nutzer · Gerät(e): PC · Artefakte: nur Text
+- Flows: FLOW-07 · Anforderungen: REQ-097, REQ-067 [v0.3.1: andere Zugänge enden]; AC-REQ-097-01 bis -05 · Rollen: Nutzer · Gerät(e): PC · Artefakte: success.png (Stitch c6973f04666c47f99c5a021d3ad2f9b0, DESKTOP, 06.11.2026)
 
 ## Angezeigte Daten
 Felder und Hinweis „Mindestens 12 Zeichen.“ Nach Erfolg Banner „Zugangspasswort geändert“.
@@ -32,7 +32,7 @@ Felder und Hinweis „Mindestens 12 Zeichen.“ Nach Erfolg Banner „Zugangspas
 Karte 480 px; Anzeige-Umschalter „Anzeigen“ je Feld.
 
 ## Bekannte Abweichungen im Mockup
-keine (kein Mockup).
+Gezeigt ist der Zustand success. Nach dem Speichern sind die Felder in `screen.md` leer; im Mockup stehen noch Punkte (Darstellung nur zur Illustration). Der Link „← Zurück zu Einstellungen“ ist grau statt blau.
 
 ## Annahmen und offene Fragen
 - Vergessenes Passwort: nur über den Betreiber, kein Screen (E-5).

diff --git a/docs/ux/screens/UI-005-abweichungen-dialog/screen.md b/docs/ux/screens/UI-005-abweichungen-dialog/screen.md
@@ -5,7 +5,7 @@
 - Anforderungen: REQ-018, REQ-014, REQ-020 (Should), REQ-072; AC-REQ-014-07, AC-REQ-020-01 bis -04
 - Kontexte: **A** Zuordnen eines Geräts (aus UI-004, REQ-018); **B** Gerät ist bereits zugeordnet, eine Variantenangabe wurde geändert (aus UI-003/UI-010, REQ-014)
 - Rollen: Nutzer · Gerät(e): PC
-- Artefakte: nur Text (Mockup geplant)
+- Artefakte: default.png (Stitch 3e8680e117f941aa8112e320354fb2a7, DESKTOP, 06.11.2026)
 
 ## Angezeigte Daten
 | Element | Inhalt | Quelle | Hinweise |
@@ -38,7 +38,7 @@ Keine.
 Dialogbreite 800 px, lange Zustandsbeschreibung bricht um.
 
 ## Bekannte Abweichungen im Mockup
-keine (kein Mockup).
+Dargestellt ist Kontext A (Zuordnen). Der Link „Umbuchen“ links im Fuß erscheint im Mockup als Textlink; maßgeblich ist `screen.md` (Sekundärbutton, nur bei bereits zugeordnetem Gerät, Kontext B). Wertangaben „4“ und „Gut“ am Gerät sind im Mockup als Kennzeichnung (warn) hervorgehoben; die Hervorhebung ist nicht verbindlich. Im Hintergrund erscheint eine abgedunkelte Skelett-Seite (von Stitch erzeugt, nicht Teil des Designs). Navigationsuntertitel entfällt.
 
 ## Annahmen und offene Fragen
 - Kontext B (REQ-014) nutzt denselben Dialog mit den Aktionen „Zuordnung behalten“, „Neues Modell-Inserat anlegen“ und „Umbuchen“ (siehe Aktionen).

diff --git a/docs/ux/screens/UI-007-modellvorlage/screen.md b/docs/ux/screens/UI-007-modellvorlage/screen.md
@@ -4,7 +4,7 @@
 - Flows: FLOW-01 (Schritt 1), FLOW-06 (Schritt 1)
 - Anforderungen: REQ-008, REQ-010, REQ-011, REQ-058 (Could), REQ-100
 - Rollen: Nutzer · Gerät(e): PC
-- Artefakte: nur Text (Mockup geplant)
+- Artefakte: default.png (Stitch 69e6f51ff7de415ca4632aca7d171b60, DESKTOP, 06.11.2026)
 
 ## Angezeigte Daten
 Formular nach Geräteart: Felder aus Merkmalsdefinitionen; Bereich „Vorbelegungswerte für Geräte“ (optional). Beim Ändern Hinweis „Änderungen an Modelldaten wirken auf alle Modell-Inserate und Datenblätter dieser Modellvorlage.“ und Anzahl betroffener Modell-Inserate.
@@ -45,7 +45,7 @@ Formular nach Geräteart: Felder aus Merkmalsdefinitionen; Bereich „Vorbelegun
 Zweispaltiges Formular ab 1366 px, Modell- und Vorbelegungsbereich getrennt.
 
 ## Bekannte Abweichungen im Mockup
-keine (kein Mockup).
+Das Mockup zeigt den Zustand „ändern“ mit gesperrter Geräteart. „Betroffene Modell-Inserate: 3“ steht im Hinweisbanner (Anzahl laut `screen.md`). Die Beispielwerte der Merkmale (Bildschirmdiagonale, Auflösung) sind fiktiv und hängen von den Merkmalsdefinitionen der Geräteart ab. Bereich unterhalb „Auflösung“ liegt hinter der Sticky-Leiste (Scrollbereich).
 
 ## Annahmen und offene Fragen
 - REQ-058 ist Could; Darstellung nur als Hinweis.

diff --git a/docs/ux/screens/UI-003-geraet-einbuchen/screen.md b/docs/ux/screens/UI-003-geraet-einbuchen/screen.md
@@ -58,5 +58,5 @@ Ab 1366 px dreispaltiges Raster, Info-Panel rechts. Fokusreihenfolge siehe uiux-
 „Business Portal“ unter „resellr“ (Stitch); Platzhalter „Modellname, Typ-Nummer oder Herstellernummer eingeben…“ im Suchfeld (entfällt); Hinweis „Stammdaten aus Bibliotheksmodell fest verknüpft“ im Info-Panel (nicht Teil des Designs); der Fehlerzustand an Akkukapazität „87“ ist nur Beispiel einer Validierungsmeldung (87 ist gültig); Zustandsliste im Mockup zeigt Beispiel-Optionen, maßgeblich Kap. 9.2; Zustandscode-Feld in Monospace (nicht Teil des Designs).
 
 ## Annahmen und offene Fragen
-- Annahme: Nach „Gerät speichern“ bleibt die Seite offen; Modellvorlage wird für das nächste Gerät behalten („Weiteres Gerät derselben Modellvorlage“ als Checkbox, standardmäßig an) – beschleunigt J-02. Ist eine Annahme, keine Anforderung.
+- Annahme: Nach „Gerät speichern“ bleibt die Seite offen; Modellvorlage wird für das nächste Gerät behalten („Weiteres Gerät derselben Modellvorlage“ als Checkbox, standardmäßig an) – beschleunigt J-02. **Design-Annahme, keine Anforderung (vom Product Owner bestätigt).**
 - Offen: Reihenfolge der Gerätewerte-Felder je Geräteart folgt der Merkmalsreihenfolge (UI-027).

diff --git a/docs/ux/screens/UI-043-auswirkung-dialog/screen.md b/docs/ux/screens/UI-043-auswirkung-dialog/screen.md
@@ -1,7 +1,7 @@
 # UI-043 – Auswirkung der Änderung (Dialog)
 
 - Zweck: Nach dem Speichern eines Textbausteins oder von GPSR-Herstellerangaben melden, wie viele Kanal-Inhalte betroffen sind.
-- Flows: FLOW-04 (Schritt 2) · Anforderungen: REQ-053, REQ-043, REQ-045 · Rollen: Nutzer · Gerät(e): PC · Artefakte: nur Text (Mockup geplant)
+- Flows: FLOW-04 (Schritt 2) · Anforderungen: REQ-053, REQ-043, REQ-045 · Rollen: Nutzer · Gerät(e): PC · Artefakte: default.png (Stitch 98c649544899484faefeb3430e5dddca, DESKTOP, 06.11.2026)
 
 ## Angezeigte Daten
 | Gruppe | Anzeige | Bedeutung |
@@ -32,7 +32,7 @@ Keine.
 Ab 1366 px; Dialogbreite 480 px, Esc schließt, Enter löst die Primäraktion aus.
 
 ## Bekannte Abweichungen im Mockup
-keine (kein Mockup).
+Im unscharfen Hintergrund unten links steht ein kleiner Versionstext (von Stitch erzeugt, nicht Teil des Designs). Der Hinweis „Keine Kanal-Inhalte betroffen“ (Zustand empty) ist nicht gestaltet. Die Kennzeichnung „geändert seit Freigabe“ beim zweiten Zähler ist Darstellung von Kap. 9.4.
 
 ## Annahmen und offene Fragen
 keine.
